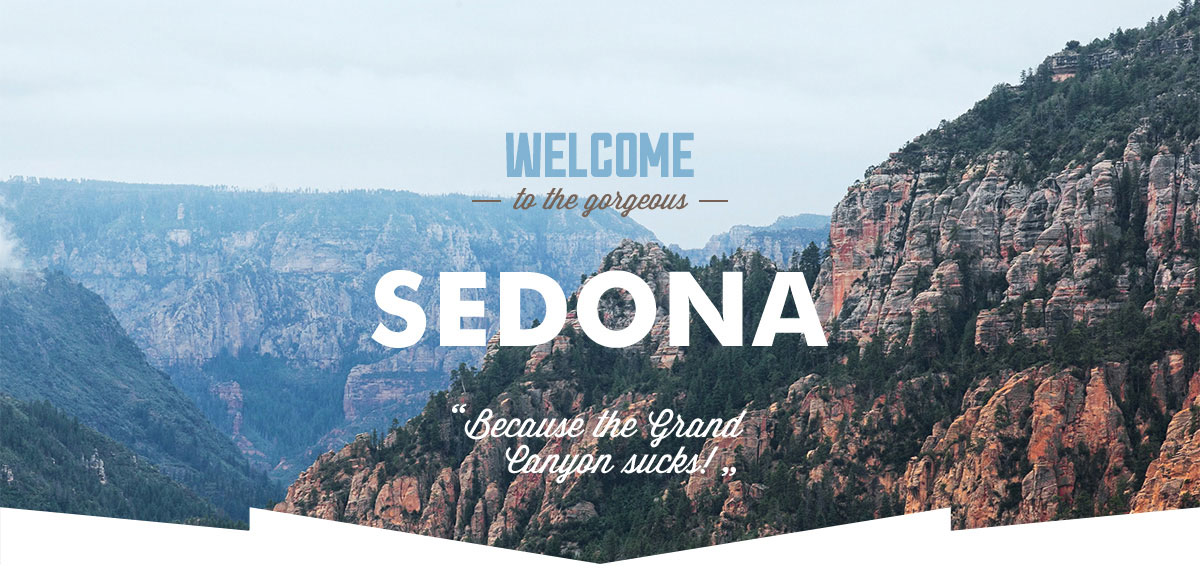
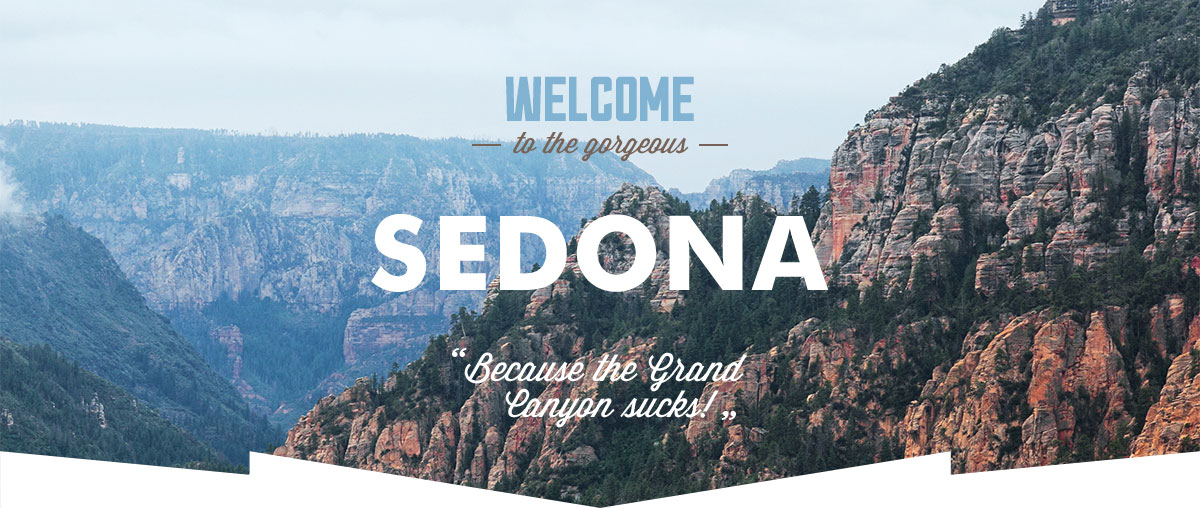
HEADER pixel perfect

diff --git a/css/style.css b/css/style.css
@@ -57,26 +57,18 @@ html {
 body {
     font-size: 14px;
     line-height: 26px;
-    color: #000000;
     font-family: "pt_sansregular";
+    text-transform: uppercase;
+    color: #000000;
     width: 1200px;
     margin: 0 auto;
     box-shadow: 0 0 15px 5px grey;
+    background-color: #ffffff;
 }
-
-h4 {
-    font-size: 21px;
-    line-height: 26px;
-    color: #000000;
-    font-weight: bold;
-    font-family: "PTSans";
-}
-
 
 .main_navigation {
     outline: dashed red;
     position: relative;
-    width: 88%;
     margin: 0 auto;
 }
 
@@ -84,7 +76,7 @@ h4 {
     position: absolute;
     width: 138px;
     height: 70px;
-    
+
     left: 50%;
     margin-left: -69px;
 }
@@ -106,7 +98,7 @@ h4 {
 
 .main_navigation_list a {
     text-decoration: none;
-    text-transform: uppercase;
+    
     color: #000000;
 }
 
@@ -181,9 +173,33 @@ h4 {
 }
 
 .intro_block {
-    height: 725px;
+    min-height: 724px;
     outline: dotted #f6ff29;
 }
+
+.intro_block>h4 {
+    width: 576px;
+    text-align: center;
+    font-size: 21px;
+    line-height: 26px;
+    font-family: pt_sansbold;
+    margin: 0 auto;
+    margin-top: 52px;
+    margin-bottom: 28px;
+
+}
+
+.intro_block>p {
+    width: 576px;
+    text-align: center;
+    margin: 0 auto;
+}
+
+
+
+
+
+
 
 .main_content {
     height: 1860px;

diff --git a/inner.html b/inner.html
@@ -8,14 +8,16 @@
     </head>
     <body>
 
-    <header class="main_header_inner">
-        <nav class="main_navigation">
-            <img class="main_navigation_logo" src="img/logo.png" alt="логотип Седона" >
+    <header class="main_header">
+        <nav class="main_navigation clearfix">
+            <a  class="main_navigation_logo" href="index.html">
+                <img src="img/logo.png" alt="логотип Седона" width="138" height="70" >
+            </a>
             <ul class="main_navigation_list">
                 <li><a href="#nogo">информация</a></li>
                 <li><a href="#nogo">фото и видео</a></li>
-                <li><a href="#nogo">карта штата</a></li>
                 <li><a href="#nogo">гостиницы</a></li>
+                <li><a href="#nogo">карта штата</a></li>
             </ul>
         </nav>
     </header>

diff --git a/index.html b/index.html
@@ -23,7 +23,7 @@
         <section class="intro_block">
             <img class="welcome" src="img/welcome.jpg" alt="Welcome to gorgeous Sedona!">
             <h4>седона - небольшой городок в аризоне, заслуживающий большего!</h4>
-            <p>рассмотрим 5 причин, по которым седона круче, чем гранд каньон</p>
+            <p>рассмотрим 5 причин, по которым седона круче, чем гранд каньон!</p>
         </section>
     </header>
 
